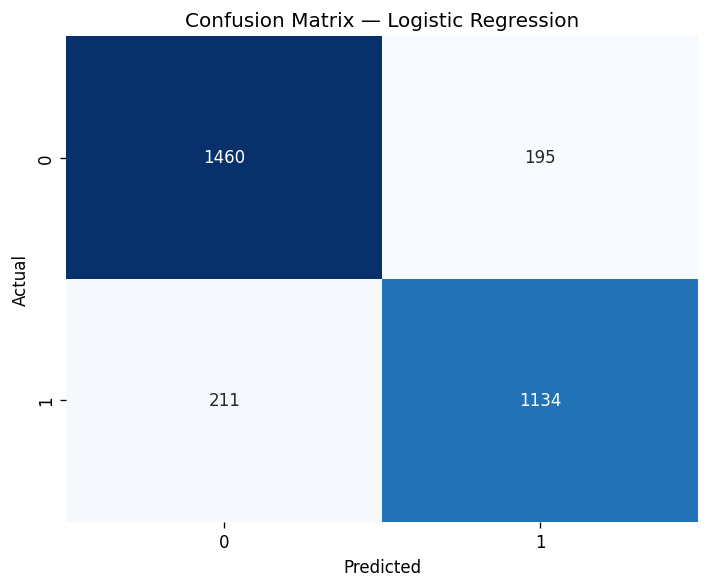
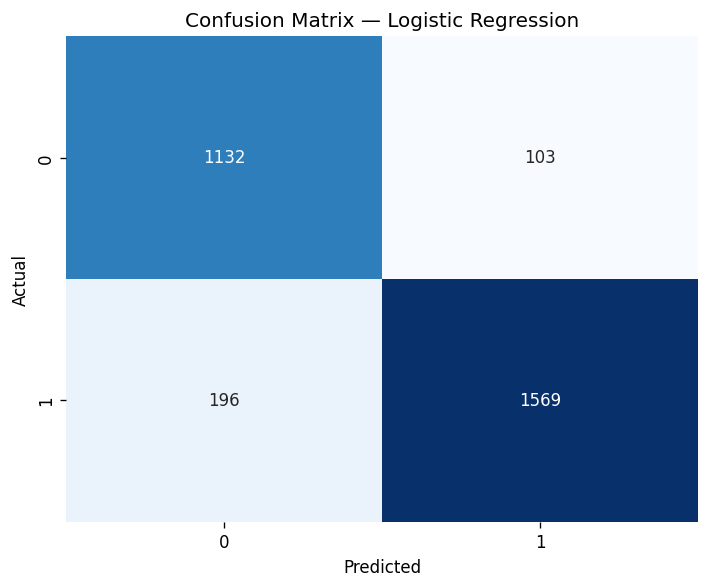
train_model.py retrained

diff --git a/backend/ml/train_model.py b/backend/ml/train_model.py
@@ -55,20 +55,36 @@ dti        = annuity / (income / 12)
 lti        = loan_amount / income
 ext_mean   = (ext1 + ext2 + ext3) / 3
 
+# log_odds = (
+#     -3.5
+#     + 0.025  * (age - 40)
+#     - 0.003  * (income / 10000)
+#     + 0.001  * (loan_amount / 10000)
+#     + 1.8    * dti.clip(0, 3)
+#     + 0.9    * lti.clip(0, 5)
+#     - 3.5    * ext_mean
+#     - 0.08   * employment_yrs
+#     + 0.12   * (family_members > 4).astype(float)
+#     + np.where(education == 'Lower secondary', 0.5, 0)
+#     + np.where(income_type == 'Pensioner', 0.3, 0)
+#     + np.random.normal(0, 0.4, N)
+# )
+
 log_odds = (
     -3.5
     + 0.025  * (age - 40)
     - 0.003  * (income / 10000)
     + 0.001  * (loan_amount / 10000)
-    + 1.8    * dti.clip(0, 3)
-    + 0.9    * lti.clip(0, 5)
-    - 3.5    * ext_mean
+    + 2.5    * dti.clip(0, 3)        # was 1.8 → increase DTI penalty
+    + 1.5    * lti.clip(0, 5)        # was 0.9 → increase LTI penalty
+    - 5.0    * ext_mean              # was -3.5 → poor credit scores hurt more
     - 0.08   * employment_yrs
     + 0.12   * (family_members > 4).astype(float)
     + np.where(education == 'Lower secondary', 0.5, 0)
     + np.where(income_type == 'Pensioner', 0.3, 0)
     + np.random.normal(0, 0.4, N)
 )
+
 prob_default = 1 / (1 + np.exp(-log_odds))
 target = (np.random.uniform(0, 1, N) < prob_default).astype(int)
 
